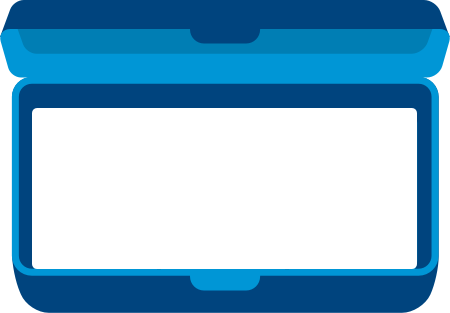
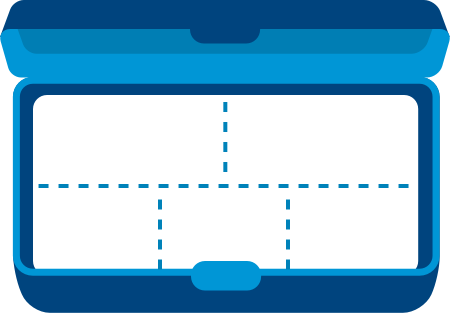
Multiple changes to architecture, creating new components and add images.

diff --git a/client/components/Builder/index.js b/client/components/Builder/index.js
@@ -27,11 +27,11 @@ export default class Builder extends Component {
         dairy: []
       },
       hidden: {
-        breads: false,
-        vegies: false,
-        fruits: false,
-        meatsandalternatives: false,
-        dairy: false,
+        breads: true,
+        vegies: true,
+        fruits: true,
+        meatsandalternatives: true,
+        dairy: true,
       }
 
     }
@@ -114,13 +114,15 @@ export default class Builder extends Component {
             fruits={this.state.fruits}
             meatsandalternatives={this.state.meatsandalternatives}
             dairy={this.state.dairy} />
+
       </div>
 
       <div className="row">
         <Tabs>
+
            <TabList>
             <Tab className={this.state.breads ? 'breads complete' : 'breads'}><span className="icon icon_breads"></span> <b>Breads & Cereals</b></Tab>
-            <Tab className={this.state.vegies ? 'vegies complete' : 'vegies'}><span className="icon icon_vegies"></span> <b>Veges & Salads</b></Tab>
+            <Tab className={this.state.vegies ? 'vegies complete' : 'vegies'}><span className="icon icon_vegies"></span> <b>Vegies & Salads</b></Tab>
             <Tab className={this.state.fruits ? 'fruits complete' : 'fruits'}><span className="icon icon_fruits"></span> <b> Fruits</b></Tab>
             <Tab className={this.state.meats ? 'meats complete' : 'meats'}><span className="icon icon_meats"></span> <b>Meats & Alternatives</b></Tab>
             <Tab className={this.state.dairy ? 'dairy complete' : 'dairy'}><span className="icon icon_dairy"></span> <b>Dairy</b></Tab>
@@ -130,7 +132,7 @@ export default class Builder extends Component {
               <h2>Breads & Cereals</h2>
               <p className={this.state.hidden.breads ? 'hidden' : ''}>Eating grain (cereal) foods, mostly wholegrain, can help protect us against heart disease Type 2 diabetes and excessive weight gain and may help reduce risk of some cancers. Wholemeal or wholegrain varieties are preferable because they provide more dietary fibre, vitamins and minerals than refined grain (cereal) foods.</p>
 
-              <button onClick={this.handleClick.bind(this, 'breads')}>{this.state.hidden.breads ? 'Read more about this food group' : 'Hide information about this food group'}</button>
+              <span onClick={this.handleClick.bind(this, 'breads')}>{this.state.hidden.breads ? 'Read more about this food group' : 'Hide info about this food group'}</span>
             </div>
             <div className="s-grid-top s-grid-xs-12 s-grid-sm-6 s-grid-md-4">
             {
@@ -144,7 +146,7 @@ export default class Builder extends Component {
              <div>
                <h2>Veges & Salads</h2>
                <p className={this.state.hidden.vegies ? 'hidden' : ''}>Eating enough fruit and vegetables is essential to achieving this because they are low in energy and high in fibre, so they help to fill you up without providing too many kilojoules. Fruit and veg also contain vital vitamins and minerals, meaning they are one of the most important features of a healthy diet.</p>
-               <button onClick={this.handleClick.bind(this, 'vegies')}>{this.state.hidden.vegies ? 'Read more about this food group' : 'Hide information about this food group'}</button>
+               <span onClick={this.handleClick.bind(this, 'vegies')}>{this.state.hidden.vegies ? 'Read more about this food group' : 'Hide info about this food group'}</span>
              </div>
 
              <div className="s-grid-top s-grid-xs-12 s-grid-sm-6 s-grid-md-4">
@@ -159,7 +161,7 @@ export default class Builder extends Component {
              <div>
                <h2>Fruits</h2>
                <p className={this.state.hidden.fruits ? 'hidden' : ''}>Eating enough fruit and vegetables is essential to achieving this because they are low in energy and high in fibre, so they help to fill you up without providing too many kilojoules. Fruit and veg also contain vital vitamins and minerals, meaning they are one of the most important features of a healthy diet.</p>
-               <button onClick={this.handleClick.bind(this, 'fruits')}>{this.state.hidden.fruits ? 'Read more about this food group' : 'Hide information about this food group'}</button>
+               <span onClick={this.handleClick.bind(this, 'fruits')}>{this.state.hidden.fruits ? 'Read more about this food group' : 'Hide info about this food group'}</span>
              </div>
              <div className="s-grid-top s-grid-xs-12 s-grid-sm-6 s-grid-md-4">
              {
@@ -173,7 +175,7 @@ export default class Builder extends Component {
              <div>
                <h2>Meats & Alternatives</h2>
                <p className={this.state.hidden.meatsandalternatives ? 'hidden' : ''}>Eating a variety of foods from the group containing lean meats and poultry, fish, eggs, nuts and seeds, and legumes/beans provides many nutrients, including protein, iron, zinc and other minerals and vitamins, particularly those of the vitamin B group. Vitamin B12 is found mainly in animal-based products. Alternatives to animal foods include nuts, seeds, legumes, beans and tofu. For all Australians, these foods increase dietary variety and can provide a valuable, affordable source of protein and other nutrients found in meats. Lean red meat is high in iron and can be an important food, especially for some groups including infants, children, women (particularly when pregnant) and athletes. However regular consumption of larger quantities of red meat may be associated with increased risk of colorectal cancer. Cancer Council recommends eating no more than 700g (raw weight) of red meat per week. Processed meats such as salami, bacon, and ham are not part of this food group. They are classified as discretionary choices because they are high in saturated fat and/or salt. Consuming processed meat may be associated with an increased risk of colorectal cancer. Cutting down on red and processed meats will reduce your cancer risk.</p>
-               <button onClick={this.handleClick.bind(this, 'meatsandalternatives')}>{this.state.hidden.meatsandalternatives ? 'Read more about this food group' : 'Hide information about this food group'}</button>
+               <span onClick={this.handleClick.bind(this, 'meatsandalternatives')}>{this.state.hidden.meatsandalternatives ? 'Read more about this food group' : 'Hide info about this food group'}</span>
              </div>
              <div className="s-grid-top s-grid-xs-12 s-grid-sm-6 s-grid-md-4">
              {
@@ -187,7 +189,7 @@ export default class Builder extends Component {
            <div>
              <h2>Dairy</h2>
              <p className={this.state.hidden.dairy ? 'hidden' : ''}>Milk, yoghurt and cheese are rich sources of calcium and other minerals, protein, and vitamins, including B12. Consumption of milk, yoghurt and cheese can protect us against heart disease and stroke, can reduce our risk of high blood pressure and some cancers, may reduce our risk of Type 2 diabetes and may contribute to stronger bones. The Department of Health recommends that the best choices for most people over the age of 2, are the reduced fat varieties, to reduce saturated fat and kilojoule content in the diet. However, this is a personal preference and the most important thing is that children are having calcium rich foods. For those who prefer to avoid dairy products, choose alternative products that have added calcium, such as calcium-enriched soy or rice drinks.</p>
-             <button onClick={this.handleClick.bind(this, 'dairy')}>{this.state.hidden.dairy ? 'Read more about this food group' : 'Hide information about this food group'}</button>
+             <span onClick={this.handleClick.bind(this, 'dairy')}>{this.state.hidden.dairy ? 'Read more about this food group' : 'Hide info about this food group'}</span>
            </div>
            <div className="s-grid-top s-grid-xs-12 s-grid-sm-6 s-grid-md-4">
            {

diff --git a/client/components/Lunchbox/index.js b/client/components/Lunchbox/index.js
@@ -1,4 +1,9 @@
 import React, { Component } from 'react'
+import vegies from './icon_veg.svg'
+import meats from './icon_meats.svg'
+import fruit from './icon_fruit.svg'
+import dairy from './icon_dairy.svg'
+import breads from './icon_breads.svg'
 
 export default class Lunchbox extends Component {
   render() {
@@ -6,19 +11,19 @@ export default class Lunchbox extends Component {
       <div className="lunchbox">
         <div className="f">
           <div className="lunchbox__breads">
-            <img src={this.props.breads}/>
+            <img src={this.props.breads ?  this.props.breads : breads}/>
           </div>
           <div className="lunchbox__vegies">
-            <img src={this.props.vegies}/>
+            <img src={this.props.vegies ? this.props.vegies : vegies}/>
           </div>
           <div className="lunchbox__fruits">
-            <img src={this.props.fruits}/>
+            <img src={this.props.fruits ? this.props.fruits : fruit}/>
           </div>
           <div className="lunchbox__meatsandalternatives">
-            <img src={this.props.meatsandalternatives}/>
+            <img src={this.props.meatsandalternatives ? this.props.meatsandalternatives : meats}/>
           </div>
           <div className="lunchbox__dairy">
-            <img src={this.props.dairy}/>
+            <img src={this.props.dairy ? this.props.dairy : dairy}/>
           </div>
         </div>
       </div>

diff --git a/client/components/Modal/index.js b/client/components/Modal/index.js
@@ -10,9 +10,25 @@ export default class ModalWindow extends Component {
     const image = get(data, 'acf.food_image')
     const content = get(data, 'content.rendered')
     const currentItem = sessionStorage.getItem(group)
+    const customStyle = {
+      content: {
+        position                   : 'absolute',
+        top                        : '10px',
+        left                       : '10px',
+        right                      : '10px',
+        bottom                     : '10px',
+        border                     : '1px solid #ccc',
+        background                 : '#fff',
+        overflow                   : 'auto',
+        WebkitOverflowScrolling    : 'touch',
+        borderRadius               : '4px',
+        outline                    : 'none',
+        padding                    : '20px'
+      }
+    }
 
     return (
-      <Modal isOpen={this.props.open} onRequestClose={this.props.close}>
+      <Modal isOpen={this.props.open} onRequestClose={this.props.close} style={customStyle}>
         <div className="info">
         <span className="close" onClick={this.props.close}><b>Close Modal</b></span>
          <img src={image} />

diff --git a/client/components/ParentPageContent/index.js b/client/components/ParentPageContent/index.js
@@ -1,0 +1,35 @@
+import React, { Component } from 'react'
+import { render } from 'react-dom'
+import { Link } from 'react-router'
+import RequestManager from '../../services/request-manager'
+import { WP_PAGES } from '../../constants'
+import get from 'lodash.get'
+
+import RelatedPages from '../RelatedPages'
+
+export default class ParentPageContent extends Component {
+
+  renderRelatedPages() {
+    const pages = JSON.parse(sessionStorage.getItem('pages'))
+    const relatedPages = pages.filter(page  => get(page, 'acf.parent_page') == 'inspiration')
+    return relatedPages.map(item => <RelatedPages key={item.id} title={item.title} content={item.excerpt} parent={get(item, 'acf.parent_page')} page={item.slug}/>)
+  }
+
+  render() {
+    const data = this.props.data
+    const title = get(data, 'title.rendered')
+    const content = get(data, 'content.rendered')
+
+    return (
+      <div className="content">
+        <h1>{title}</h1>
+        <div dangerouslySetInnerHTML={{__html: content}}/>
+
+        <div className="s-grid-top s-grid-xs-12 s-grid-sm-6 s-grid-md-4">
+          {this.renderRelatedPages()}
+        </div>
+
+      </div>
+    )
+  }
+}

diff --git a/client/components/ChildPageContent/index.js b/client/components/ChildPageContent/index.js
@@ -1,0 +1,37 @@
+import React, { Component } from 'react'
+import { render } from 'react-dom'
+import { Link } from 'react-router'
+import get from 'lodash.get'
+
+import RelatedPosts from '../RelatedPosts'
+
+export default class ChildPageContent extends Component {
+
+  relatedPosts() {
+    const getPosts = sessionStorage.getItem('posts')
+    const slug = this.props.data.slug
+
+    if(getPosts) {
+      const posts = JSON.parse(getPosts)
+      const relatedPosts = posts.filter(post => get(post, 'acf.inspo_section') === slug)
+      return relatedPosts.map(item => <RelatedPosts key={item.id} data={item} parent={slug} />)
+    }
+  }
+
+  render() {
+    const data = this.props.data
+    const title = get(data, 'title.rendered')
+    const content = get(data, 'content.rendered')
+
+    return (
+      <div className="content">
+        <h1>{title}</h1>
+        <div dangerouslySetInnerHTML={{__html: content}}/>
+
+        <div className="s-grid-top s-grid-xs-12 s-grid-sm-6 s-grid-md-4">
+          {this.relatedPosts()}
+        </div>
+      </div>
+    )
+  }
+}

diff --git a/client/index.js b/client/index.js
@@ -5,6 +5,11 @@ import 'isomorphic-fetch'
 
 import App from './components/App'
 import Home from './components/Home'
+import ParentPage from './components/ParentPage'
+import ChildPage from './components/ChildPage'
+import PostPage from './components/PostPage'
+
+
 import Page from './components/Page'
 import Builder from './components/Builder'
 import NotFound from './components/NotFound'
@@ -15,9 +20,11 @@ const Routes = (
   <Router history={browserHistory}>
     <Route path="/" component={App}>
       <IndexRoute component={Home}></IndexRoute>
-      <Route path=":slug" component={Page}></Route>
       <Route path="/create/lunchbox" component={Builder}></Route>
-      <Route path=":year/:month/:name" Component={App}></Route>
+      <Route path=":slug" component={ParentPage}></Route>
+      <Route path="/:slug/:slug" component={ChildPage}>
+        <Route path="/:post" component={Home}></Route>
+      </Route>
       <Route path="*" component={NotFound}></Route>
     </Route>
   </Router>

diff --git a/client/components/ParentPage/index.js b/client/components/ParentPage/index.js
@@ -1,0 +1,25 @@
+import React, { Component } from 'react'
+import ParentPageContent from '../ParentPageContent'
+import NotFound from '../NotFound'
+
+export default class ParentPage extends Component {
+
+  componentWillMount() {
+    const getPages = sessionStorage.getItem('pages')
+    const slug = this.props.params.slug
+
+    if(getPages) {
+      const allPageData = JSON.parse(sessionStorage.getItem('pages'))
+      const pageData = allPageData.filter(page => page.slug === slug)
+      this.setState({data: pageData[0]})
+    }
+  }
+
+  render() {
+    return (
+      <div className="container">
+        { this.state.data ? <ParentPageContent data={this.state.data}/> : <NotFound /> }
+      </div>
+    )
+  }
+}

diff --git a/client/components/RelatedPages/index.js b/client/components/RelatedPages/index.js
@@ -1,0 +1,23 @@
+import React, { Component } from 'react'
+import get from 'lodash.get'
+
+export default class ParentPage extends Component {
+  constructor(props) {
+    super(props)
+  }
+
+  render() {
+    const data = this.props
+    const title = get(data, 'title.rendered')
+    const description = get(data, 'content.rendered')
+    const parent = data.parent
+    const link = data.page
+    return (
+      <div className="s-grid-cell">
+        <h3>{title}</h3>
+        <div dangerouslySetInnerHTML={{__html: description}}/>
+        <a href={link}>Read more</a>
+      </div>
+    )
+  }
+}

diff --git a/client/components/ChildPage/index.js b/client/components/ChildPage/index.js
@@ -1,0 +1,22 @@
+import React, { Component } from 'react'
+import ChildPageContent from '../ChildPageContent'
+
+export default class ChildPage extends Component {
+  componentWillMount() {
+    const getPages = sessionStorage.getItem('pages')
+    const slug = this.props.params.slug
+
+    if(getPages) {
+      const allPageData = JSON.parse(sessionStorage.getItem('pages'))
+      const pageData = allPageData.filter(page => page.slug === slug[1])
+      this.setState({data: pageData[0]})
+    }
+
+  }
+  render() {
+    return (
+      <ChildPageContent data={this.state.data} />
+    )
+  }
+
+}

diff --git a/client/components/RelatedPosts/index.js b/client/components/RelatedPosts/index.js
@@ -1,0 +1,20 @@
+import React, { Component } from 'react'
+import get from 'lodash.get'
+export default class ParentPage extends Component {
+
+  render() {
+    const data = this.props.data
+    const title = get(data, 'title.rendered')
+    const description = get(data, 'content.rendered')
+    const link = this.props.parent + '/' + data.slug
+
+    console.log(data)
+    return (
+      <div className="s-grid-cell">
+        <h3>{title}</h3>
+        <div dangerouslySetInnerHTML={{__html: description}}/>
+        <a href={link}>Read more</a>
+      </div>
+    )
+  }
+}

diff --git a/client/components/FoodItem/index.js b/client/components/FoodItem/index.js
@@ -7,7 +7,7 @@ export default class FoodItem extends Component {
     return (
       <div className="s-grid-cell fooditem">
         <div key={data.id} onClick={this.props.onClick}>
-          <img src={data.acf.food_image} />
+          <img src={data.acf.food_image ? data.acf.food_image : ''} />
           <p>{data.title.rendered}</p>
         </div>
       </div>

diff --git a/client/components/PostPage/index.js b/client/components/PostPage/index.js
@@ -1,0 +1,9 @@
+import React, { Component } from 'react'
+
+export default class PostPage extends Component {
+  render() {
+      return (
+        <h1>Hello</h1>
+      )
+  }
+}
